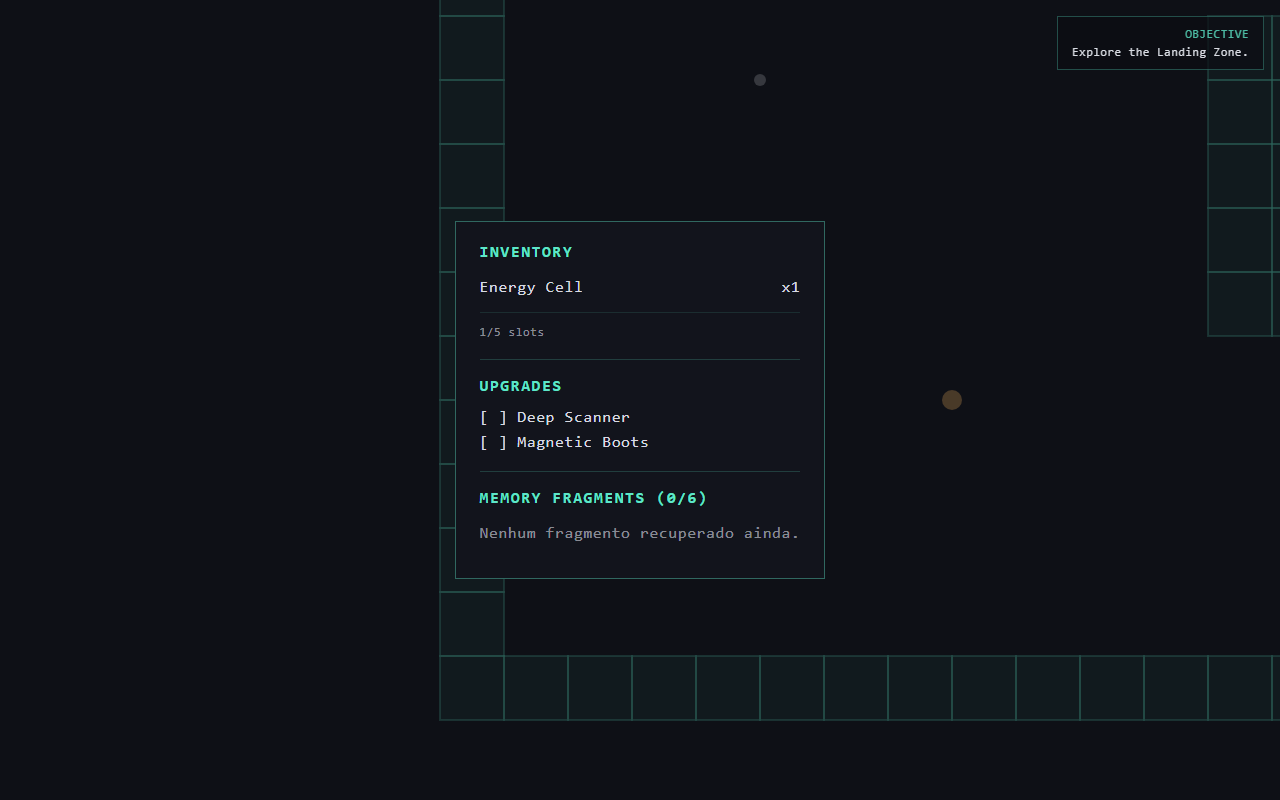
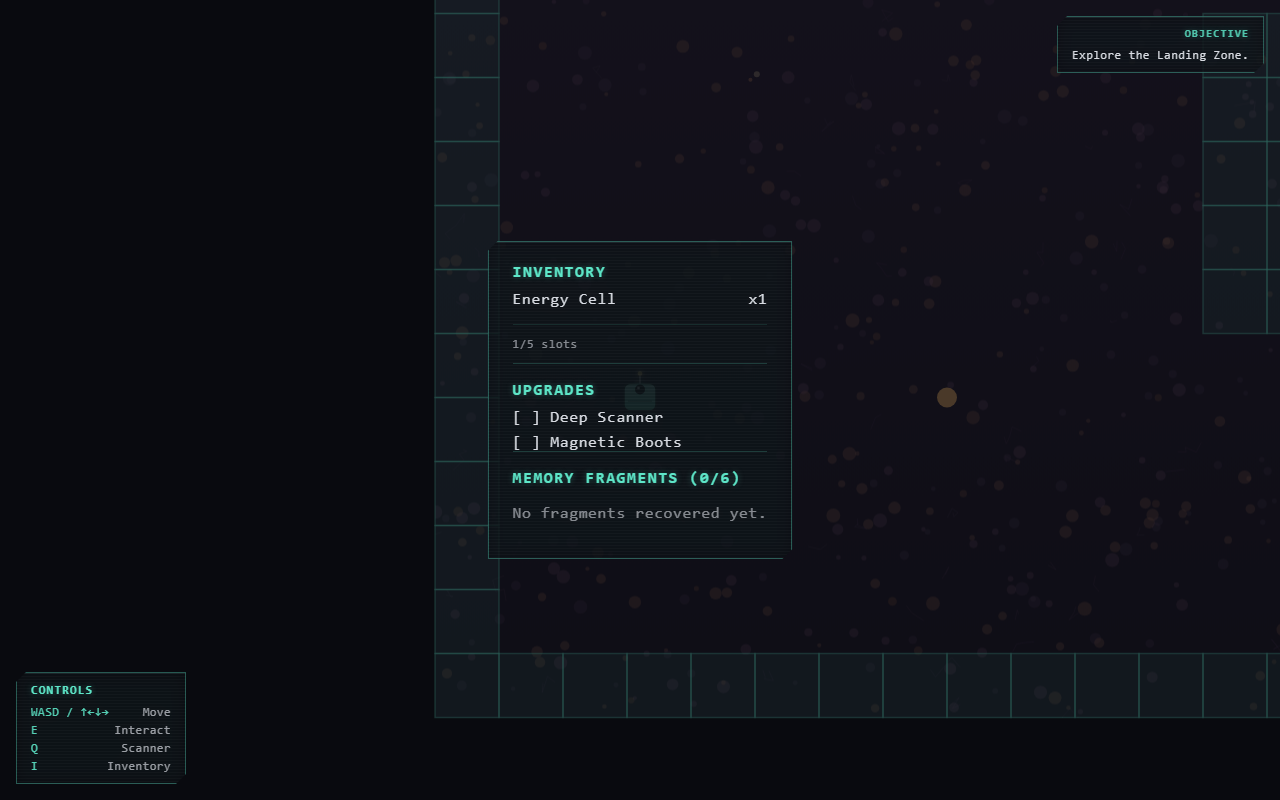
docs: atualiza README/ARCHITECTURE/AI_DEVELOPMENT e screenshots pos-release
Screenshots antigas mostravam o robo quadrado da Fase 1 e ate
capturavam o bug de idioma misto (PT-BR solto numa UI em ingles) que
motivou a fase de i18n - regeradas com o jogo atual. Documentacao
atualizada: contagem de testes (118), estrutura de pastas (i18n/,
styles/, save/), nova secao de i18n/preferencias em ARCHITECTURE.md,
roadmap dividido em MVP + pos-release no README.

diff --git a/docs/ARCHITECTURE.md b/docs/ARCHITECTURE.md
@@ -20,17 +20,20 @@ Game Systems                        (systems/ - movimento, colisao, interacao, s
 World / Entities / Content          (world/, entities/, content/)
 ```
 
-**Regra central:** o código de `engine/`, `systems/`, `entities/`, `world/` e `content/` nunca importa nada de React. Isso é o que torna a lógica de jogo testável sem precisar de DOM/jsdom — os 101 testes automatizados do projeto rodam contra essas camadas diretamente.
+**Regra central:** o código de `engine/`, `systems/`, `entities/`, `world/` e `content/` nunca importa nada de React. Isso é o que torna a lógica de jogo testável sem precisar de DOM/jsdom — os 118 testes automatizados do projeto (`environment: 'node'` no Vitest) rodam contra essas camadas, incluindo `state/` e `save/`, diretamente.
 
-## Estado: três lugares diferentes, de propósito
+## Estado: quatro lugares diferentes, de propósito
 
-| Onde | O quê | Exemplo |
-|---|---|---|
-| Refs dentro do `GameCanvas` | Estado "quente", muda a cada frame | posição do jogador, câmera, partículas |
-| `state/uiStore.ts` (Zustand) | Estado de tela, descartável | scanner ativo, inventário aberto, fragmento em exibição |
-| `state/gameStore.ts` (Zustand) | Progresso do jogador, permanente | inventário, upgrades instalados, puzzles resolvidos, região atual |
+| Onde | O quê | Exemplo | Sobrevive a NEW GAME? |
+|---|---|---|---|
+| Refs dentro do `GameCanvas` | Estado "quente", muda a cada frame | posição do jogador, câmera, partículas | não se aplica (recriado) |
+| `state/uiStore.ts` (Zustand) | Estado de tela, descartável | scanner ativo, inventário aberto, fragmento em exibição | não (`resetUi()`) |
+| `state/gameStore.ts` (Zustand) | Progresso do jogador, permanente dentro de uma partida | inventário, upgrades instalados, puzzles resolvidos, região atual, objetivo atual (`ObjectiveKey`) | não (`resetGame()`) |
+| `state/settingsStore.ts` (Zustand) | Preferência do dispositivo/jogador, entre partidas | idioma (`Locale`), cor do robô (`RobotColorKey`) | **sim** - não é progresso |
 
 Dados de alta frequência (posição, velocidade) nunca entram no Zustand: cada `set()` notifica componentes React inscritos, e fazer isso a ~60 vezes por segundo geraria re-renderizações desnecessárias. O `GameCanvas` lê/escreve as stores de forma imperativa (`getState()`/`setState()`) dentro do loop, e só quando um valor realmente muda — nunca via hook, que é para uso em render de componente.
+
+`gameStore`/`uiStore` persistem via `save/saveGame.ts` (localStorage, chave `echo7-save`, versionado); `settingsStore` persiste separadamente via `save/settingsStorage.ts` (chave `echo7-settings`) - de propósito, para uma preferência de idioma/cor nunca ser apagada por um NEW GAME nem acoplada ao versionamento do progresso de jogo.
 
 ## Game loop
 
@@ -44,7 +47,21 @@ Uma `Region` (`world/region.ts`) é um grid de tiles (`floor`/`wall`/`hazard`/`s
 
 Tiles `hazard` e `sealed` bloqueiam colisão condicionalmente - o primeiro até o jogador ter o upgrade Magnetic Boots, o segundo até um puzzle ser resolvido. O `GameCanvas` monta a lista de obstáculos de cada frame combinando paredes (sempre) com esses tiles condicionais, consultando a `gameStore`.
 
-`content/` guarda os dados de verdade (as três regiões, os puzzles, os upgrades, os fragmentos de memória) - sempre estático e imutável; qualquer coisa que mude durante uma partida (o que já foi coletado, ativado, resolvido) vive em estado de sessão (refs do `GameCanvas`) ou na `gameStore`, nunca mutando o conteúdo.
+`content/` guarda os dados de verdade (as três regiões, os puzzles, os upgrades, os fragmentos de memória, as paletas de cor do robô) - sempre estático e imutável; qualquer coisa que mude durante uma partida (o que já foi coletado, ativado, resolvido) vive em estado de sessão (refs do `GameCanvas`) ou na `gameStore`, nunca mutando o conteúdo. **Texto de exibição não mora em `content/`:** `WorldObject`, `InventoryItem`, `Upgrade` e `MemoryFragment` guardam só identidade (`id`) - o texto (nome, descrição, narrativa) é resolvido em `i18n/` por esse `id`, no idioma atual. Ver seção seguinte.
+
+## Internacionalização (i18n) e preferências
+
+Suporte a dois idiomas (Inglês, padrão; Português do Brasil) via dicionário customizado tipado, sem biblioteca - `i18n/translations.ts` define a interface `Translations` (o formato completo de todo texto do jogo), e `i18n/en.ts`/`i18n/ptBR.ts` a implementam. Como consequência, esquecer uma chave em qualquer um dos dois idiomas é **erro de compilação**, não bug em runtime.
+
+```
+state/settingsStore.ts (locale atual)
+   |
+hooks/useTranslations.ts  -->  TRANSLATIONS[locale]  (i18n/index.ts)
+   |
+componentes React (t.mainMenu.title, t.items[id], t.objectives[key], ...)
+```
+
+Conteúdo de jogo (`content/*.ts`) guarda só `id`s estáveis; os componentes resolvem o texto correspondente no dicionário (`t.items[id]`, `t.upgrades[id]`, `t.fragments[id]`, `t.scanInfo[objectId]`) sempre no idioma atual, nunca lendo texto pré-computado de dados salvos - isso evita que um objeto escaneado (ou uma missão) fique "preso" no idioma de quando o evento aconteceu. Detalhes e alternativas descartadas em [`DECISIONS.md`](DECISIONS.md) ("Internacionalização").
 
 ## Estrutura de pastas
 
@@ -55,11 +72,15 @@ src/
   systems/       # lógica de gameplay pura (movimento, colisão, interação, scanner, puzzle, upgrades)
   entities/      # tipos das principais entidades (Player, Discovery, InventoryItem, Puzzle, Upgrade, MemoryFragment)
   world/         # modelo de região/tile/objeto e funções de carregamento (worldLoader)
-  content/       # dados estáticos do jogo (regiões, puzzles, upgrades, fragmentos)
-  state/         # stores Zustand (gameStore, uiStore)
-  hooks/         # ponte entre React e a engine (useGameLoop)
-  assets/        # (reservado; nenhum asset de imagem/áudio ainda - tudo é desenhado por código ou sintetizado)
+  content/       # dados estáticos do jogo (regiões, puzzles, upgrades, fragmentos, paletas de cor do robô) - só id/identidade, nunca texto de exibição
+  i18n/          # dicionário de traducão (Locale, Translations, en.ts, ptBR.ts)
+  state/         # stores Zustand (gameStore, uiStore, settingsStore)
+  save/          # persistência em localStorage (progresso versionado + preferências, separados)
+  styles/        # CSS compartilhado entre componentes de UI (composes do CSS Modules)
+  hooks/         # ponte entre React e a engine/i18n (useGameLoop, useTranslations)
 ```
+
+Não há pasta `assets/`: nenhum sprite/imagem/arquivo de áudio no projeto - decisão de arquitetura desde a Fase 0/1, reafirmada no polish visual pós-release (ver [`DECISIONS.md`](DECISIONS.md)). Tudo é desenhado via Canvas 2D ou sintetizado via Web Audio API.
 
 Cada arquivo `*.test.ts` fica ao lado do arquivo testado (ver [`DECISIONS.md`](DECISIONS.md), decisão da Fase 1.1).
 

diff --git a/README.md b/README.md
@@ -6,9 +6,9 @@ Jogo de exploração sci-fi para navegador. Você controla ECHO-7, um robô expl
 
 **[vagnerso.github.io/echo-7](https://vagnerso.github.io/echo-7/)**
 
-Roda direto no navegador, sem instalação. Requer teclado (sem suporte a touch/mobile nesta versão).
+Roda direto no navegador, sem instalação. Requer teclado (sem suporte a touch/mobile nesta versão). Disponível em **Inglês** (padrão) e **Português do Brasil**, com cor do robô customizável — ambos em Settings, no menu principal.
 
-**Controles:** `WASD`/setas para mover · `E` interagir · `Q` scanner · `I` inventário/upgrades/fragmentos.
+**Controles:** `WASD`/setas para mover · `E` interagir · `Q` scanner · `I` inventário/upgrades/fragmentos. Também exibidos na tela durante o jogo.
 
 ## 📸 Screenshots
 
@@ -22,7 +22,7 @@ Roda direto no navegador, sem instalação. Requer teclado (sem suporte a touch/
 
 ## 🧠 AI-Assisted Development
 
-Este projeto é usado deliberadamente como demonstração de **engenharia assistida por IA**, não como "vibe coding": design e arquitetura foram definidos e aprovados antes de qualquer código (Fase 0), o desenvolvimento avançou em dez fases pequenas e testáveis, e toda decisão técnica não óbvia foi documentada com o porquê — inclusive os bugs reais encontrados e corrigidos ao longo do caminho.
+Este projeto é usado deliberadamente como demonstração de **engenharia assistida por IA**, não como "vibe coding": design e arquitetura foram definidos e aprovados antes de qualquer código (Fase 0), o desenvolvimento avançou em fases pequenas e testáveis (dez para o MVP, mais outras depois do release), e toda decisão técnica não óbvia foi documentada com o porquê — inclusive os bugs reais encontrados e corrigidos ao longo do caminho.
 
 - [`docs/AI_DEVELOPMENT.md`](docs/AI_DEVELOPMENT.md) — a metodologia usada, com uma tabela de exemplos reais de onde a IA entrou (brainstorming, arquitetura, implementação, debugging, testes, refactoring, conteúdo, documentação).
 - [`docs/DECISIONS.md`](docs/DECISIONS.md) — registro de toda decisão técnica não óbvia, fase a fase, com contexto, alternativas consideradas e motivo.
@@ -73,7 +73,7 @@ npm run format     # formata o código (Prettier)
 
 ## 🧪 Testing
 
-Testes ficam ao lado do código testado (`arquivo.ts` + `arquivo.test.ts`), priorizando lógica de jogo pura (`engine/`, `systems/`, `state/`) — 107 testes automatizados no total. Ver critérios de teste em [`docs/DECISIONS.md`](docs/DECISIONS.md).
+Testes ficam ao lado do código testado (`arquivo.ts` + `arquivo.test.ts`), priorizando lógica de jogo pura (`engine/`, `systems/`, `state/`, `save/`) — 118 testes automatizados no total. Ver critérios de teste em [`docs/DECISIONS.md`](docs/DECISIONS.md).
 
 ## 📁 Project Structure
 
@@ -84,15 +84,19 @@ src/
   systems/       # lógica de gameplay pura (movimento, colisão, interação, scanner, puzzle, upgrades)
   entities/      # tipos das principais entidades (Player, Discovery, InventoryItem, Puzzle, Upgrade, MemoryFragment)
   world/         # modelo de região/tile/objeto e carregamento de mundo
-  content/       # dados estáticos do jogo (regiões, puzzles, upgrades, fragmentos)
-  state/         # stores Zustand (gameStore, uiStore)
-  save/          # persistência em localStorage, versionada
-  hooks/         # ponte entre React e a engine
+  content/       # dados estáticos do jogo (regiões, puzzles, upgrades, fragmentos, cores do robô) - só identidade, sem texto
+  i18n/          # dicionário de tradução (Inglês/Português-BR)
+  state/         # stores Zustand (gameStore, uiStore, settingsStore)
+  save/          # persistência em localStorage, versionada (progresso e preferências, separados)
+  styles/        # CSS compartilhado entre componentes de UI
+  hooks/         # ponte entre React e a engine/i18n
 ```
 
 Ver [`docs/ARCHITECTURE.md`](docs/ARCHITECTURE.md) para o propósito de cada pasta em detalhe.
 
 ## 🗺 Roadmap
+
+**MVP (vertical slice):**
 
 - [x] Fase 0 — Planejamento (GDD, arquitetura, decisões técnicas)
 - [x] Fase 1 — Bootstrap (setup, canvas responsivo, game loop, tela inicial)
@@ -106,4 +110,10 @@ Ver [`docs/ARCHITECTURE.md`](docs/ARCHITECTURE.md) para o propósito de cada pas
 - [x] Fase 9 — Polish (partículas, transição de tela, áudio sintetizado)
 - [x] Fase 10 — Release (GitHub Pages, save/load, documentação final)
 
-A vertical slice está completa: dá para jogar do início (Landing Zone) até o final do primeiro arco narrativo (Signal Core), com progresso salvo automaticamente. Próximos passos possíveis: Região 4+ e continuação da história (o final termina com um gancho proposital), arte/sprites de verdade, controles mobile.
+**Pós-release:**
+
+- [x] Polish visual — robô com chassi/pernas/antena animados, terreno procedural por região, UI com estilo compartilhado (glow, cantos técnicos, scanline), painel de comandos na tela
+- [x] Internacionalização — Inglês (padrão) e Português do Brasil, dicionário customizado tipado, tela de Settings
+- [x] Customização — cor do robô (5 opções), preferências persistidas separadas do progresso de jogo
+
+A vertical slice está completa: dá para jogar do início (Landing Zone) até o final do primeiro arco narrativo (Signal Core), com progresso salvo automaticamente. Próximos passos possíveis: Região 4+ e continuação da história (o final termina com um gancho proposital), mais idiomas, sprites/arte de verdade (hoje 100% vetorial), controles mobile.

diff --git a/docs/AI_DEVELOPMENT.md b/docs/AI_DEVELOPMENT.md
@@ -67,9 +67,9 @@ Dados narrativos e de balanceamento (itens, regiões, fragmentos de memória, pu
 |---|---|
 | **Brainstorming** | Fase 8: antes de escrever qualquer fragmento de memória, a IA propôs um esboço do arco narrativo (o que cada região revela, a natureza do Signal Core) para o desenvolvedor aprovar ou ajustar - incluindo o pedido explícito de fechar com um gancho de continuação, incorporado depois do esboço inicial. |
 | **Arquitetura** | A Fase 0 inteira (GDD, camadas, modelo de dados, riscos) foi produzida antes de qualquer código. Decisões estruturais continuaram surgindo depois: por exemplo, `WorldObject.kind` (um enum) virou flags de capacidade independentes (`interactable?`, `scannable?`...) na Fase 6, quando um segundo caso de uso mostrou que o enum não escalava. |
-| **Implementação** | As dez fases do roadmap, cada uma com sistemas isolados e testados antes de avançar para a próxima (movimento, colisão, scanner, puzzle, upgrades, narrativa, polish). |
+| **Implementação** | As dez fases do roadmap do MVP, cada uma com sistemas isolados e testados antes de avançar para a próxima (movimento, colisão, scanner, puzzle, upgrades, narrativa, polish). O mesmo processo (objetivo → decisão → arquivos → implementação → teste → riscos, uma fase por vez) continuou depois do MVP: polish visual (robô, cenário, UI, comandos) e depois internacionalização + customização de cor, cada uma dividida e aprovada em fases separadas. |
 | **Debugging** | Um bug real foi encontrado em revisão própria antes de testar no navegador (Fase 6): a primeira versão da instalação automática de upgrades usava um snapshot único do inventário, o que permitiria que um único componente "pagasse" por dois upgrades que exigem 1 unidade cada. Corrigido reavaliando o estado a cada instalação. Outro exemplo (Fase 7): um ponto de retorno entre regiões foi projetado, sem querer, dentro de uma área que só é acessível com um upgrade específico - um softlock em potencial, pego relendo a posição contra a geometria da região antes de testar. |
-| **Testes** | 101 testes automatizados, escritos ao lado de cada sistema (`arquivo.ts` + `arquivo.test.ts`), priorizando lógica de jogo pura conforme a seção 20 do prompt mestre. |
+| **Testes** | 118 testes automatizados, escritos ao lado de cada sistema (`arquivo.ts` + `arquivo.test.ts`), priorizando lógica de jogo pura conforme a seção 20 do prompt mestre. |
 | **Refactoring** | Fase 6: o enum de tipo de objeto virou flags (acima). Fase 7: `getRegionObstacles` (só paredes) foi generalizado para `getObstaclesForTileType` quando o tile `hazard` precisou do mesmo tratamento, evitando duplicar a função inteira. |
 | **Conteúdo** | Rascunhos de texto (os seis fragmentos de memória, as descrições dos objetos escaneáveis) foram propostos pela IA e aprovados/ajustados pelo desenvolvedor antes de entrarem no jogo - nunca decididos unilateralmente, já que direção narrativa é explicitamente decisão do desenvolvedor (seção 27 do prompt mestre). |
 | **Documentação** | Os três documentos deste projeto (`AI_DEVELOPMENT.md`, `DECISIONS.md`, `ARCHITECTURE.md`) e o README foram escritos pela IA e atualizados a cada fase concluída, não só no final. |
